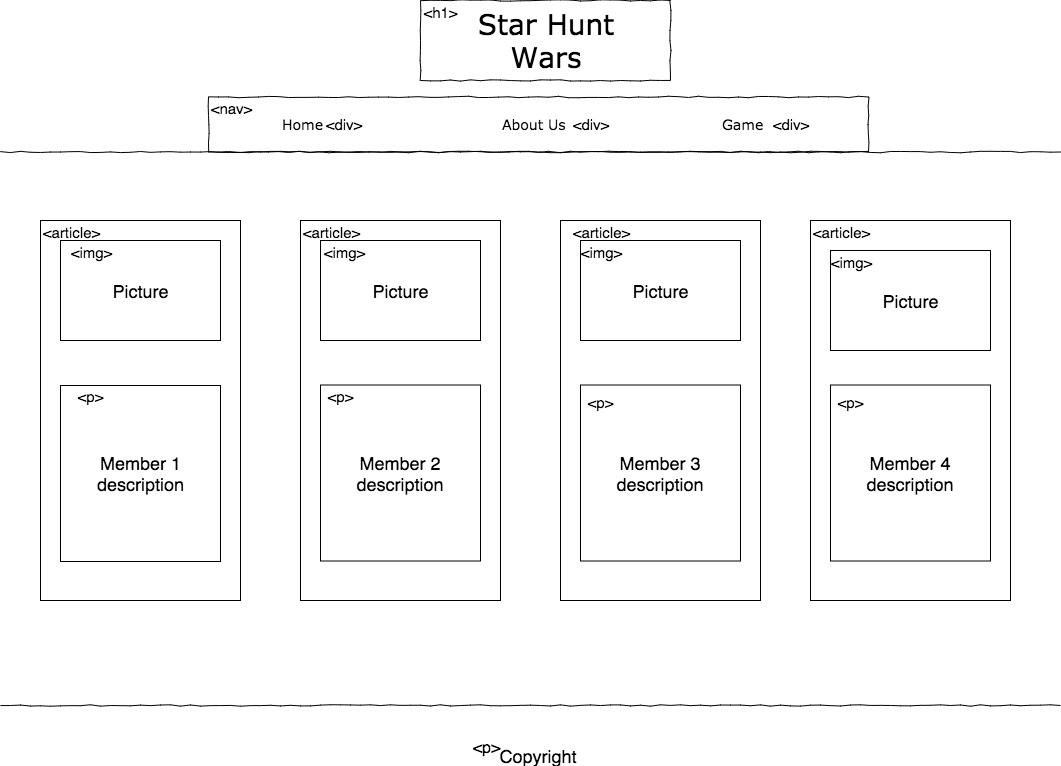
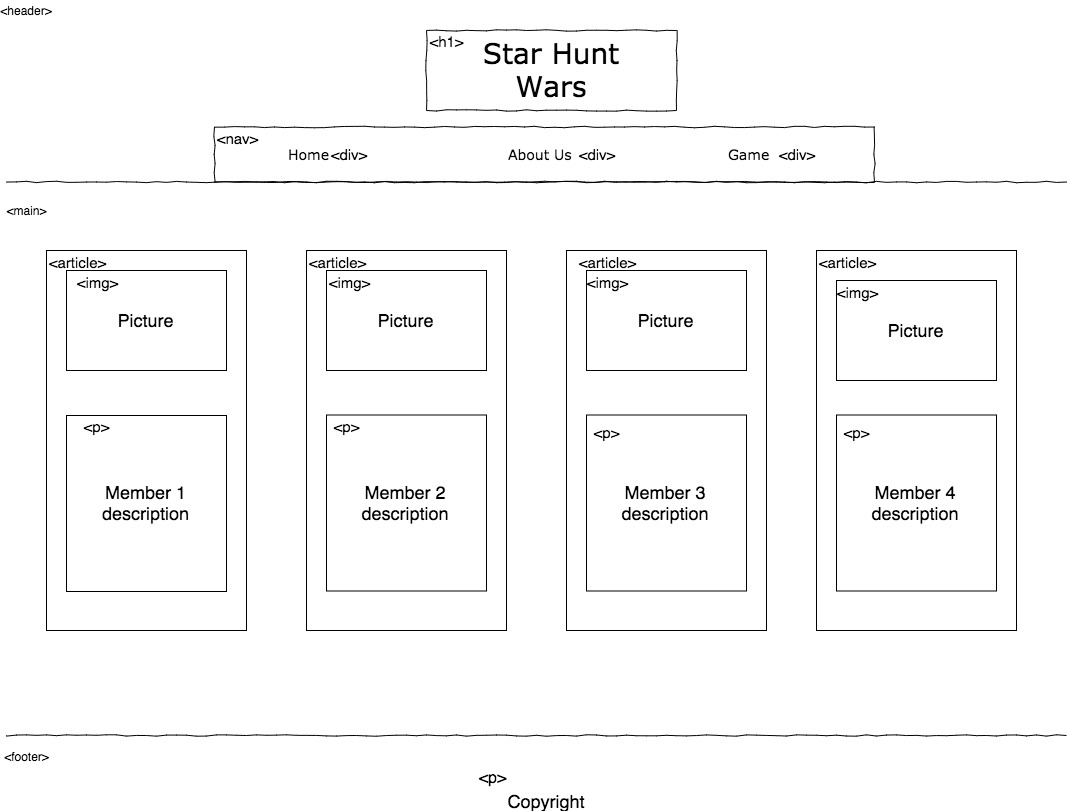
fixed wireframe layout to our group discussion from yesterday and also added play and aboutus html in the folder

diff --git a/html/aboutus.html b/html/aboutus.html
@@ -1,0 +1,16 @@
+<!DOCTYPE html>
+<html lang="en">
+<head>
+    <meta charset="UTF-8">
+    <meta name="viewport" content="width=device-width, initial-scale=1.0">
+    <meta http-equiv="X-UA-Compatible" content="ie=edge">
+    <link rel="stylesheet" href="../css/reset.css">
+    <link rel="stylesheet" href="../css/style.css">
+    <title>Document</title>
+</head>
+<body>
+    <header></header>
+    <main></main>
+    <footer></footer>
+</body>
+</html>

diff --git a/html/play.html b/html/play.html
@@ -1,0 +1,16 @@
+<!DOCTYPE html>
+<html lang="en">
+<head>
+    <meta charset="UTF-8">
+    <meta name="viewport" content="width=device-width, initial-scale=1.0">
+    <meta http-equiv="X-UA-Compatible" content="ie=edge">
+    <link rel="stylesheet" href="../css/reset.css">
+    <link rel="stylesheet" href="../css/style.css">
+    <title>Document</title>
+</head>
+<body>
+    <header></header>
+    <main></main>
+    <footer></footer>
+</body>
+</html>
